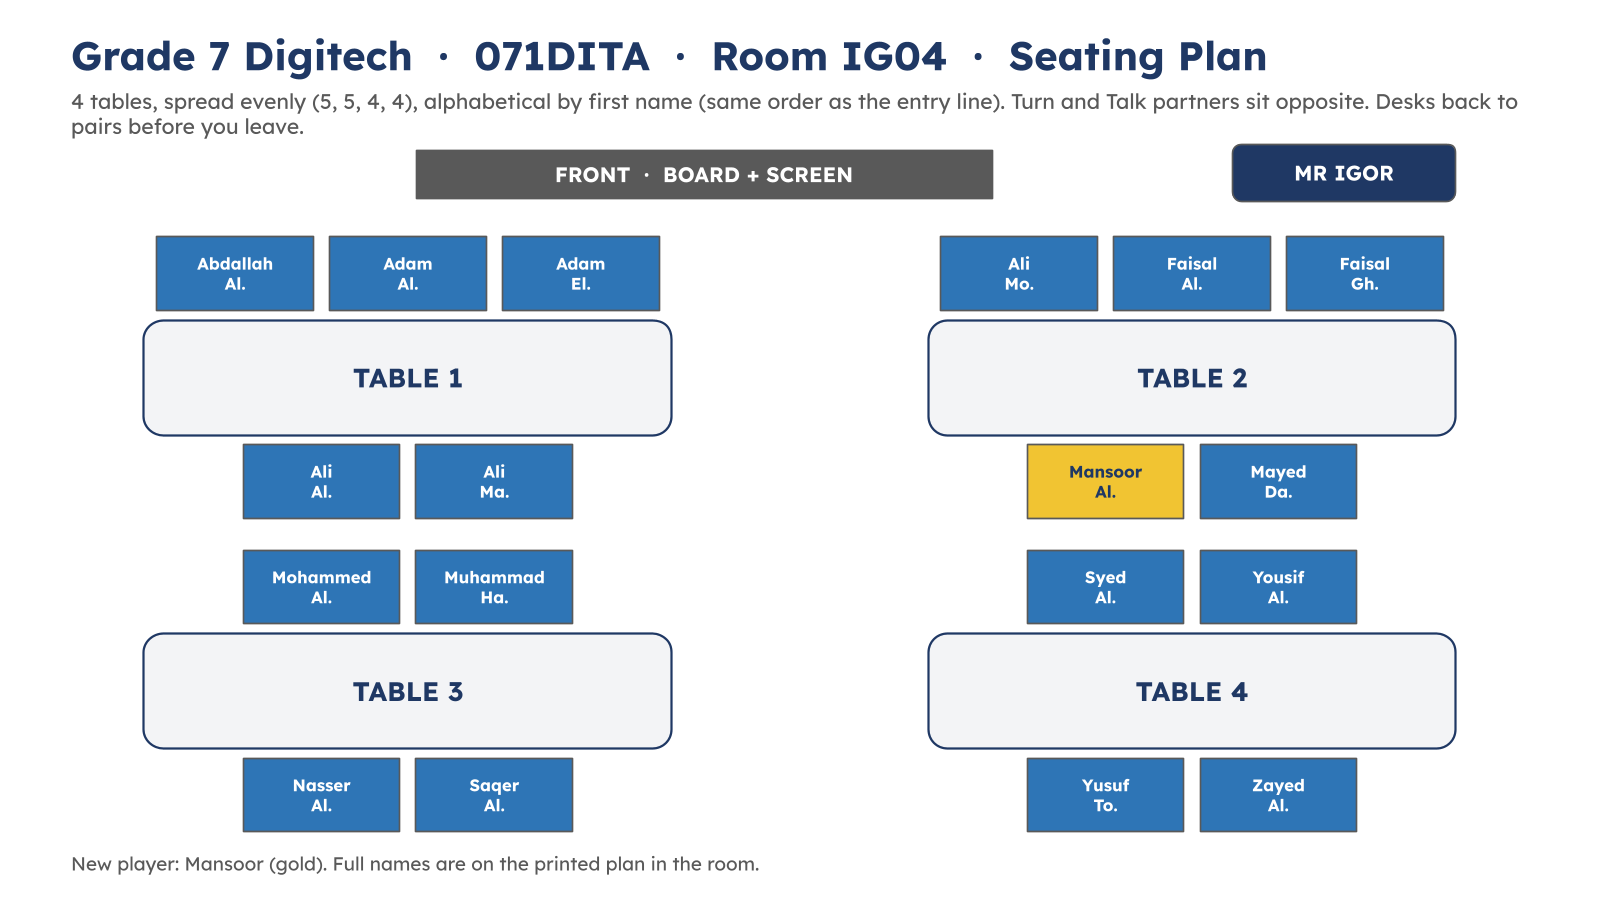
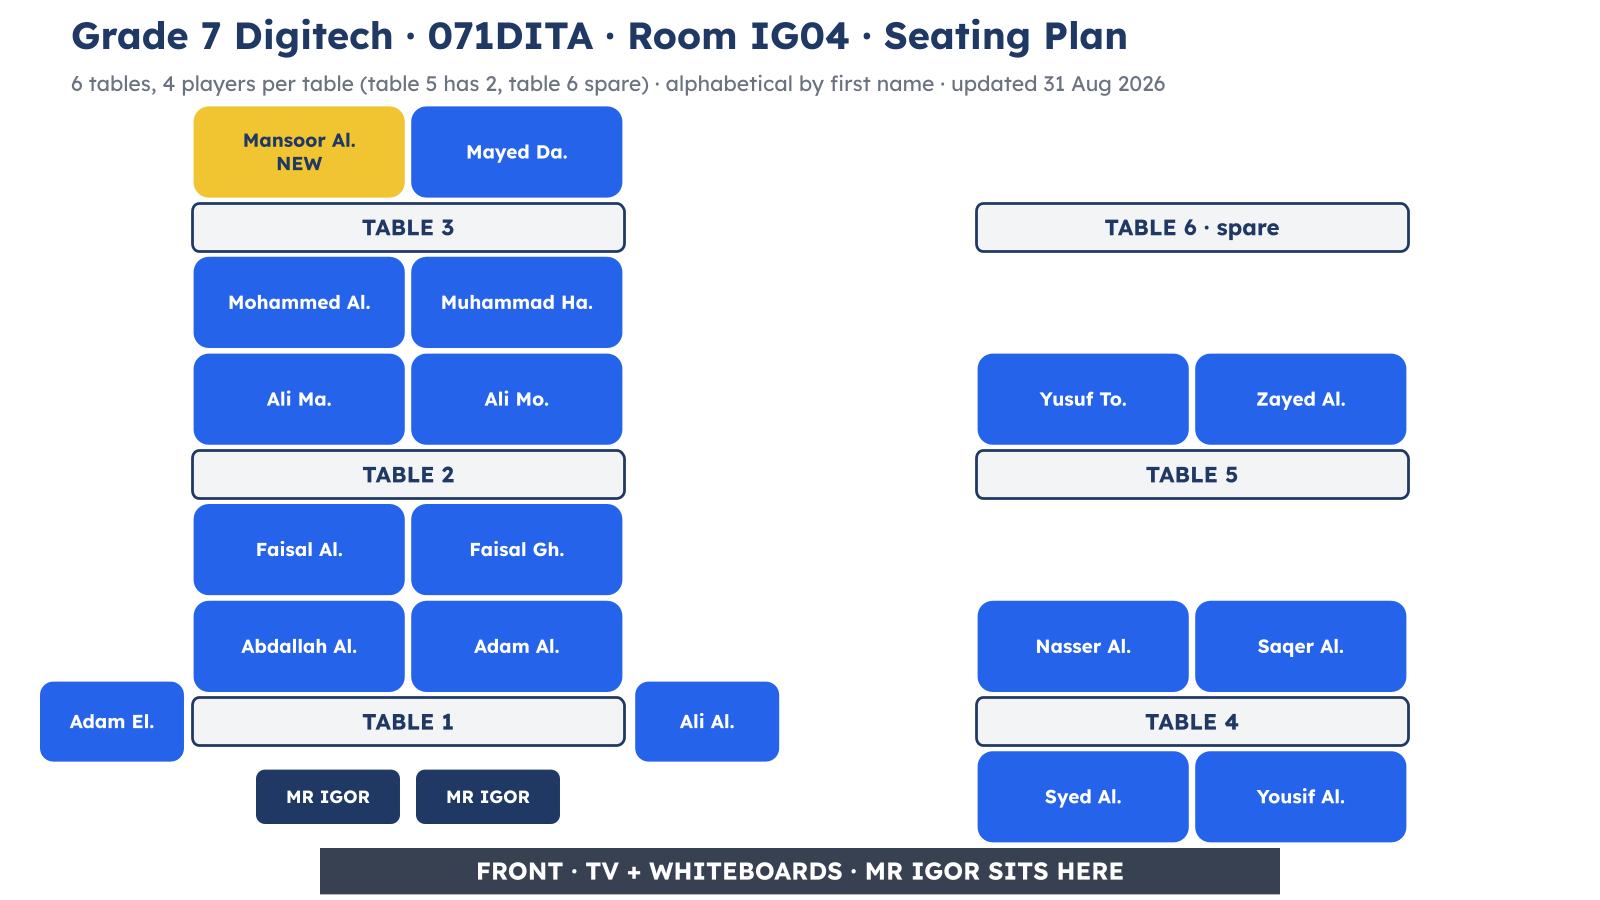
Rev 6: room-true 6-table seating plan (photos in the private Slides file, initials on the deck)

diff --git a/g7-week1-routines-cloudcraft.html b/g7-week1-routines-cloudcraft.html
@@ -289,7 +289,7 @@ body.edit-active [contenteditable="true"] { outline:2px dashed var(--gold); outl
 </section>
 
 <!-- 2 · Entry routine + seating plan -->
-<section class="slide g-grassy" data-notes="<strong>Routine teach (4 min).</strong> These four never change. The line order and the seating plan are both ON this slide: read the line order aloud once, then players find their table. 4 tables, 5/5/4/4, alphabetical, built for Turn and Talk. <span class='tag cfu'>CFU</span> fist to five on each step. 🎓 Bathroom rule for YOU: All Access Pass, not first or last 15 min, one at a time, 5 min max.">
+<section class="slide g-grassy" data-notes="<strong>Routine teach (4 min).</strong> These four never change. The line order and the seating plan are both ON this slide: read the line order aloud once, then players find their table. 6 tables, 4 per table (table 5 has 2, table 6 spare), alphabetical, built for Turn and Talk. <span class='tag cfu'>CFU</span> fist to five on each step. 🎓 Bathroom rule for YOU: All Access Pass, not first or last 15 min, one at a time, 5 min max.">
   <div class="slide-content" style="max-width:min(96vw,1440px)">
     <p class="eyebrow reveal">// entry_routine</p>
     <h2 class="reveal">Spawning in: the entry routine</h2>
@@ -306,7 +306,7 @@ body.edit-active [contenteditable="true"] { outline:2px dashed var(--gold); outl
         </ol>
       </div>
       <div class="sheet-fig col-img reveal" style="max-width:min(48vw,760px)">
-        <img src="assets/seating.png" alt="Seating plan: 4 tables, students placed alphabetically" style="max-height:62vh">
+        <img src="assets/seating.png" alt="Seating plan: 6 tables, 4 per table (table 5 has 2, table 6 spare), students placed alphabetically" style="max-height:62vh">
       </div>
     </div>
     <p class="reveal" style="margin-top:var(--element-gap)">
@@ -862,7 +862,7 @@ body.edit-active [contenteditable="true"] { outline:2px dashed var(--gold); outl
    Any deck push bumps DECK_VERSION (push-update.sh does it automatically), which purges
    stored edits so a stale edit can never be restored over a restructured deck.
    Everything else (font scale, teacher toggle, iSAMS state) stays session-only. */
-const DECK_VERSION = 'rev5';
+const DECK_VERSION = 'rev6';
 const EDIT_KEY = 'g7w1-edits:' + DECK_VERSION;
 try { Object.keys(localStorage).forEach(k => { if (k !== EDIT_KEY) localStorage.removeItem(k); }); } catch (e) {}
 
